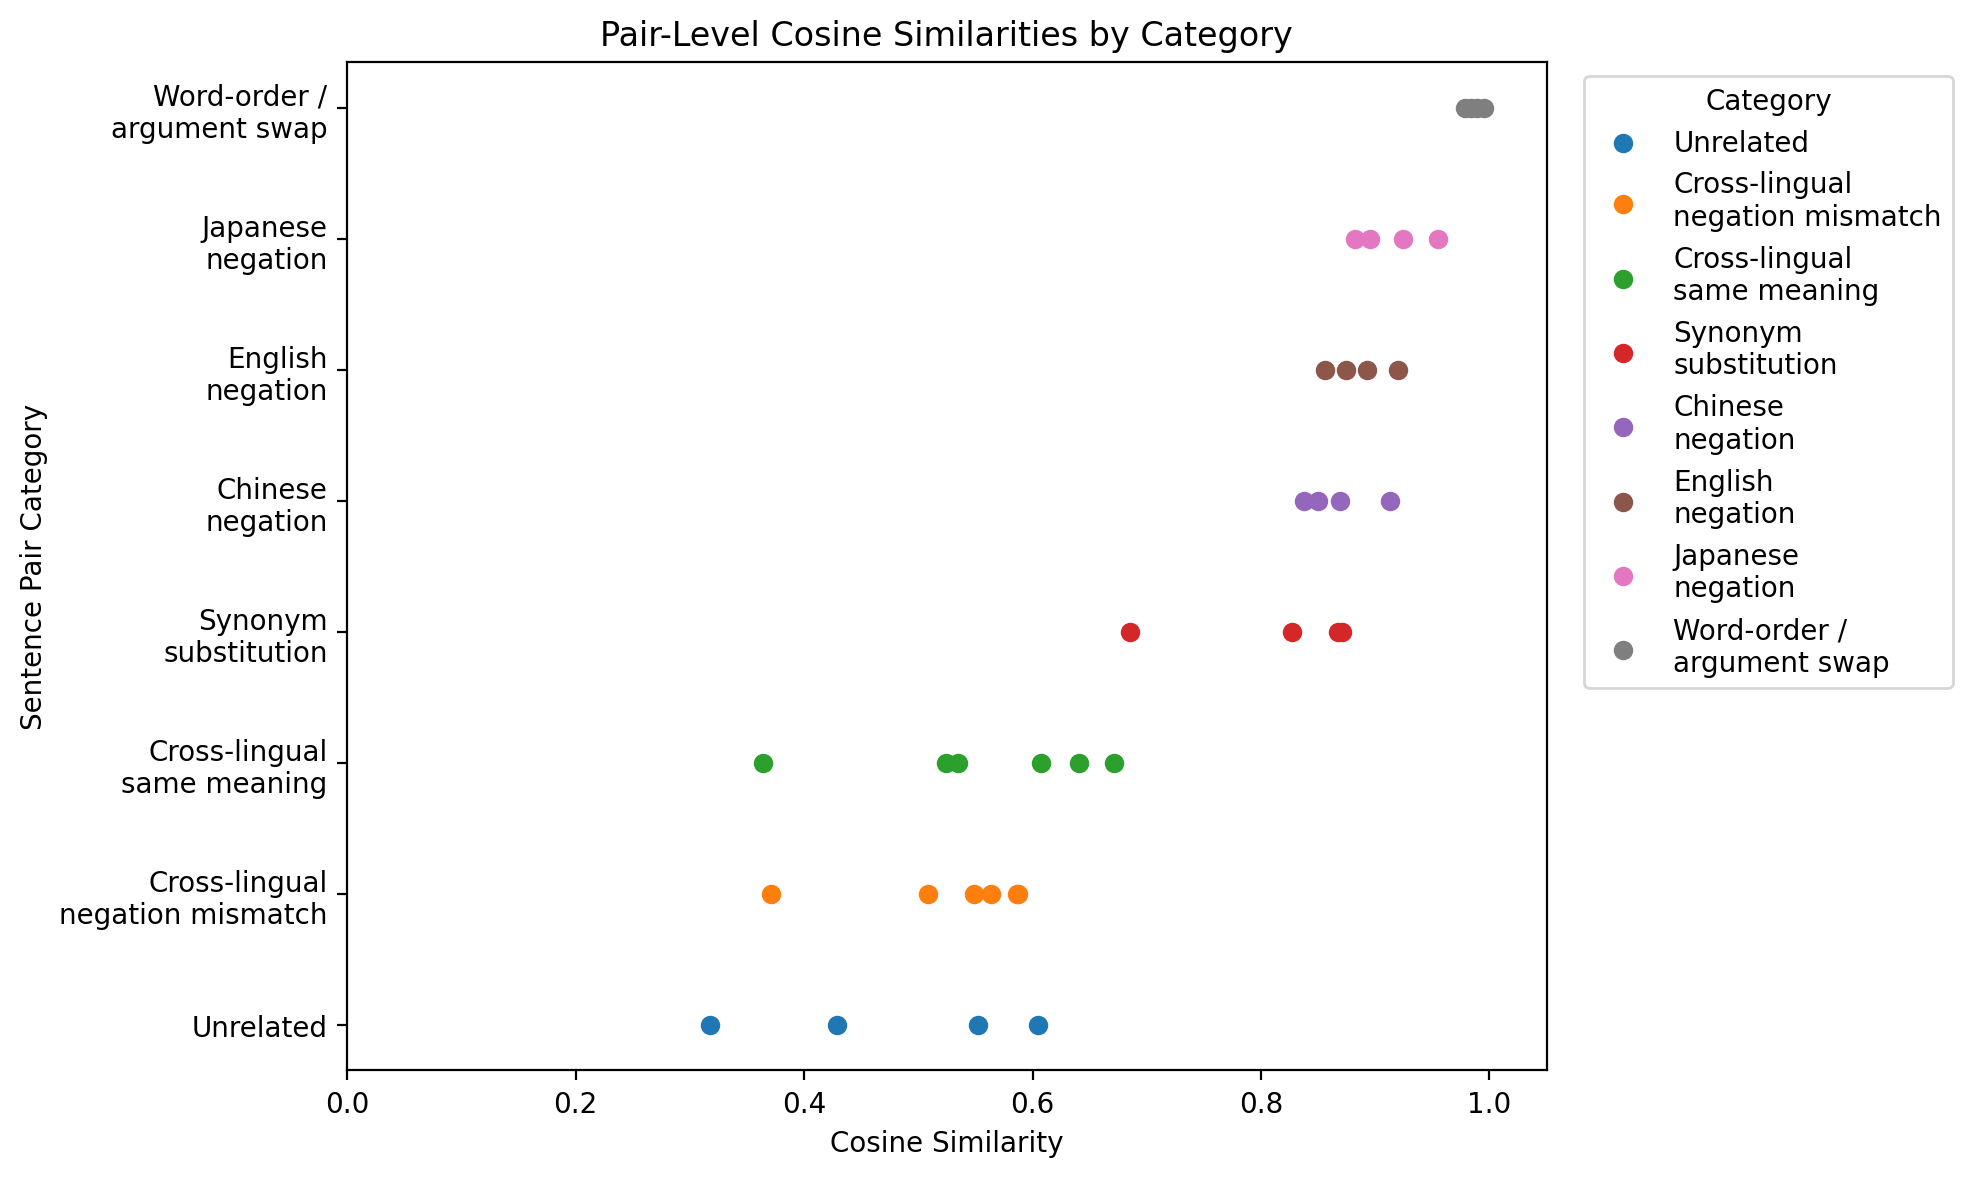
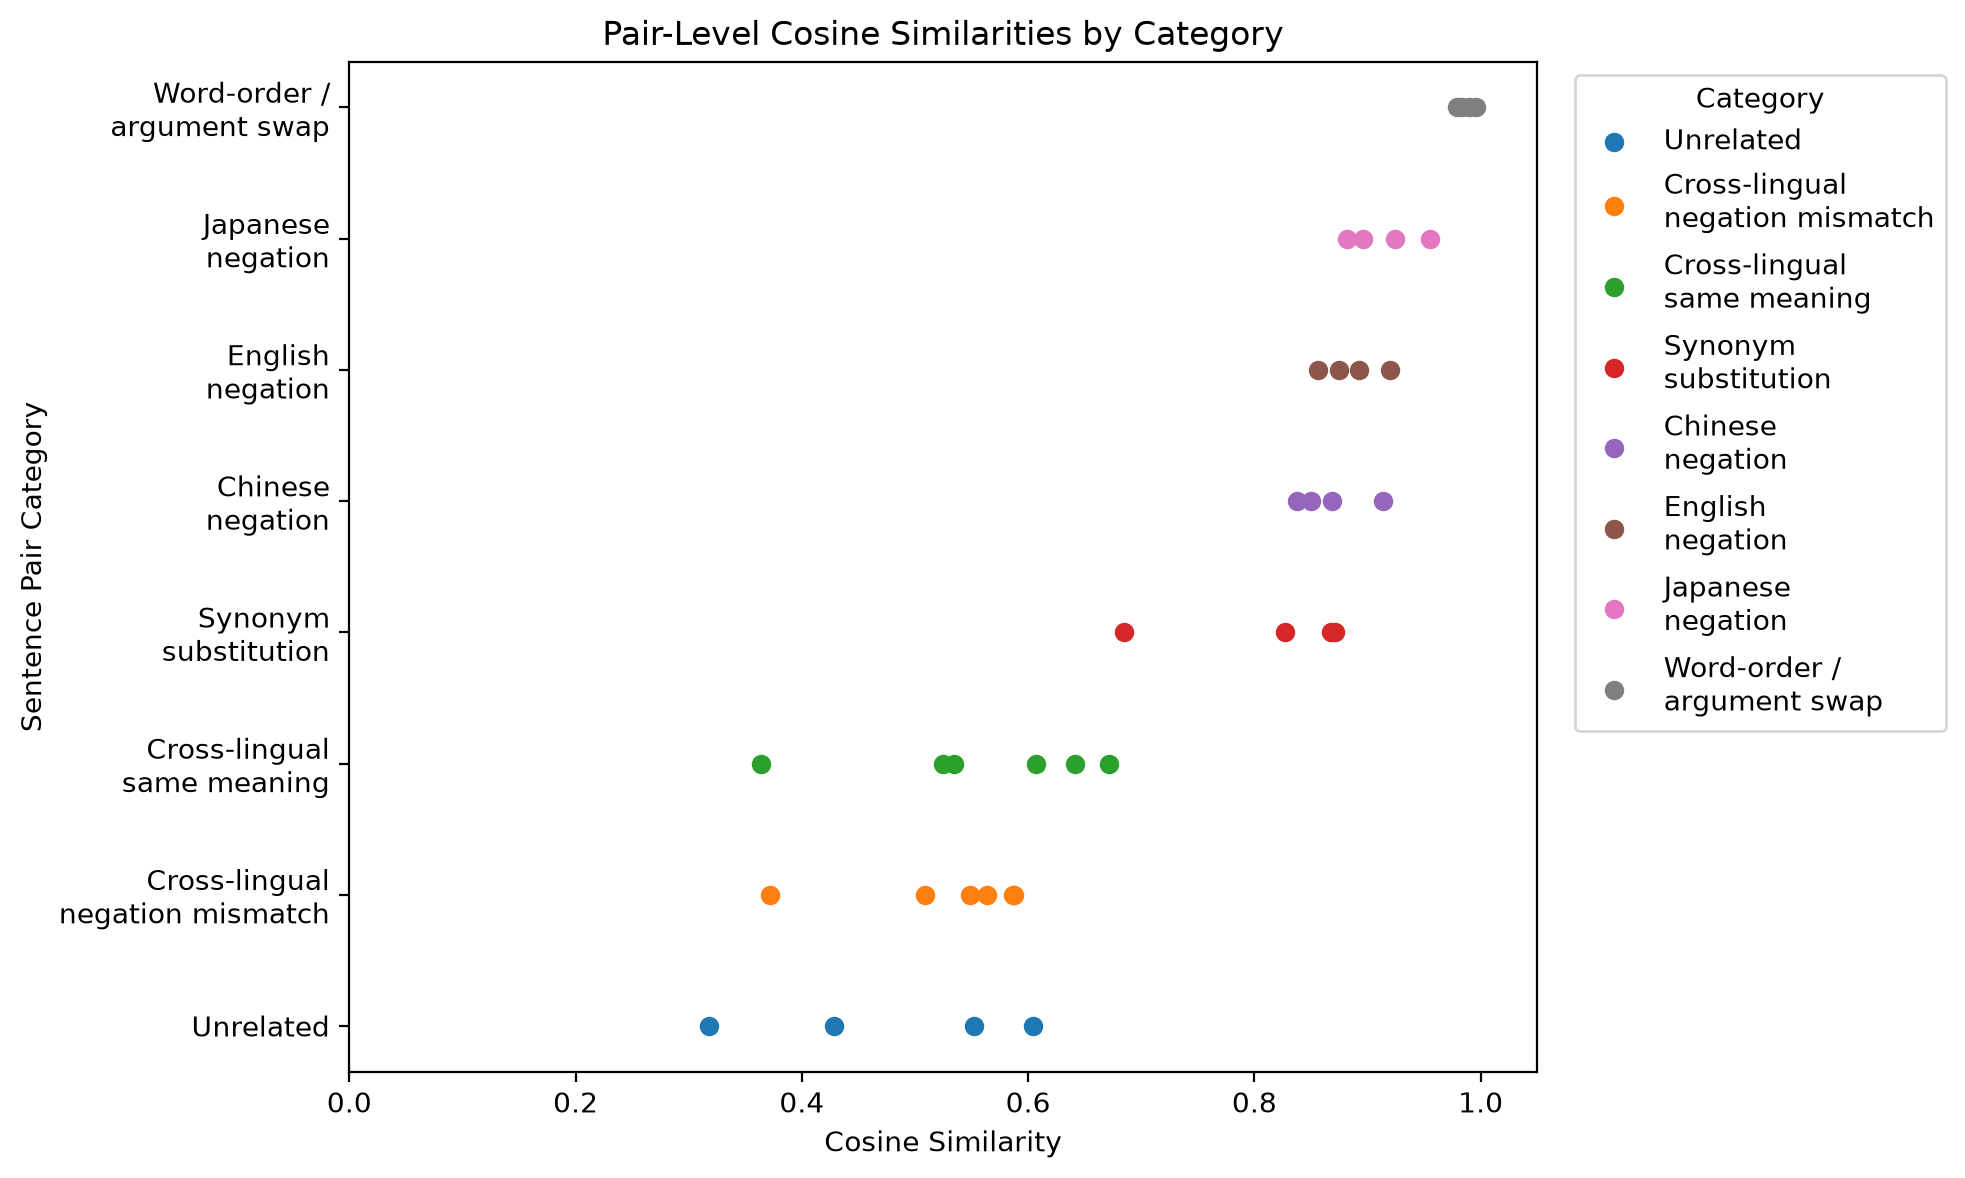
add visualization

diff --git a/src/make_figures.py b/src/make_figures.py
@@ -2,6 +2,7 @@ from pathlib import Path
 
 import matplotlib.pyplot as plt
 import pandas as pd
+import numpy as np
 
 """
 1st experiment visualizations
@@ -12,10 +13,13 @@ FIGURES_DIR = Path("figures")
 
 CATEGORY_RESULTS_PATH = RESULTS_DIR / "category_summary_mbert.csv"
 PAIR_RESULTS_PATH = RESULTS_DIR / "pair_similarities_mbert.csv"
+CLS_CATEGORY_RESULTS_PATH = RESULTS_DIR / "category_summary_mbert_cls.csv"
+COMPARISON_RESULTS_PATH = RESULTS_DIR / "mean_vs_cls_category_comparison.csv"
 
 CATEGORY_FIGURE_PATH = FIGURES_DIR / "category_mean_similarity.png"
 PAIR_FIGURE_PATH = FIGURES_DIR / "pair_similarity_by_category.png"
 COLOR_FIGURE_PATH = FIGURES_DIR / "pair_similarity_color.png"
+MEAN_VS_CLS_FIGURE_PATH = FIGURES_DIR / "mean_vs_cls_category_comparison.png"
 
 
 def clean_category_name(category: str) -> str:
@@ -155,16 +159,113 @@ def make_pair_level_scatter_plot_color() -> None:
     plt.savefig(COLOR_FIGURE_PATH, dpi=200, bbox_inches="tight")
     plt.close()
 
+def load_mean_vs_cls_comparison() -> pd.DataFrame:
+    """
+    Load Experiment 1 and 2 category summaries and combine them.
+    """
+    mean_df = pd.read_csv(CATEGORY_RESULTS_PATH)
+    cls_df = pd.read_csv(CLS_CATEGORY_RESULTS_PATH)
+
+    mean_df = mean_df[["category", "expected_similarity", "mean_similarity"]]
+    cls_df = cls_df[["category", "mean_similarity"]]
+
+    comparison = mean_df.merge(
+        cls_df,
+        on="category",
+        suffixes=("_mean_pooling", "_cls"),
+    )
+
+    comparison["difference_cls_minus_mean"] = (
+        comparison["mean_similarity_cls"]
+        - comparison["mean_similarity_mean_pooling"]
+    ).round(4)
+
+    comparison = comparison.sort_values(
+        "mean_similarity_mean_pooling",
+        ascending=True,
+    )
+
+    comparison.to_csv(COMPARISON_RESULTS_PATH, index=False)
+
+    return comparison
+
+def make_mean_vs_cls_grouped_bar_chart() -> None:
+    """
+    Create a grouped horizontal bar chart comparing Experiment 1 and 2.
+    """
+    comparison = load_mean_vs_cls_comparison()
+
+    comparison["label"] = comparison["category"].apply(clean_category_name)
+
+    y_positions = np.arange(len(comparison))
+    bar_height = 0.35
+
+    plt.figure(figsize=(11, 7))
+
+    plt.barh(
+        y_positions - bar_height / 2,
+        comparison["mean_similarity_mean_pooling"],
+        height=bar_height,
+        label="Mean pooling",
+    )
+
+    plt.barh(
+        y_positions + bar_height / 2,
+        comparison["mean_similarity_cls"],
+        height=bar_height,
+        label="CLS token",
+    )
+
+    max_value = max(
+        comparison["mean_similarity_mean_pooling"].max(),
+        comparison["mean_similarity_cls"].max(),
+    )
+
+    label_offset = 0.01
+    right_padding = 0.08
+
+    for index, value in enumerate(comparison["mean_similarity_mean_pooling"]):
+        plt.text(
+            value + label_offset,
+            y_positions[index] - bar_height / 2,
+            f"{value:.3f}",
+            va="center",
+            fontsize=8,
+        )
+
+    for index, value in enumerate(comparison["mean_similarity_cls"]):
+        plt.text(
+            value + label_offset,
+            y_positions[index] + bar_height / 2,
+            f"{value:.3f}",
+            va="center",
+            fontsize=8,
+        )
+
+    plt.yticks(y_positions, comparison["label"])
+    plt.xlabel("Mean Cosine Similarity")
+    plt.ylabel("Sentence Pair Category")
+    plt.title("Experiment 1 vs. Experiment 2: Mean Pooling Compared with CLS Token")
+    plt.xlim(0, max_value + right_padding)
+    plt.legend()
+    plt.tight_layout()
+
+    plt.savefig(MEAN_VS_CLS_FIGURE_PATH, dpi=200, bbox_inches="tight")
+    plt.close()
+
 def main() -> None:
     FIGURES_DIR.mkdir(exist_ok=True)
 
     make_category_bar_chart()
     make_pair_level_scatter_plot()
     make_pair_level_scatter_plot_color()
+    make_mean_vs_cls_grouped_bar_chart()
 
     print(f"Saved category bar chart to: {CATEGORY_FIGURE_PATH}")
     print(f"Saved pair-level scatter plot to: {PAIR_FIGURE_PATH}")
     print(f"Saved color-coded scatter plot to: {COLOR_FIGURE_PATH}")
+    print(f"Saved mean-vs-CLS comparison chart to: {MEAN_VS_CLS_FIGURE_PATH}")
+
 
 
 if __name__ == "__main__":

diff --git a/README.md b/README.md
@@ -128,6 +128,12 @@ CLS-token embeddings did not fix the unexpected behavior from Experiment 1, inst
 
 The role-reversal category remained the highest-scoring category, with a mean similarity of 0.9945. Negation categories also remained very high. The cross-lingual same-meaning category improved from 0.5572 to 0.8244, but the cross-lingual negation mismatch category also increased from 0.5279 to 0.7747. One surprising result was that unrelated sentence pairs also became much more similar, increasing from 0.4758 with mean pooling to 0.7898 with CLS. 
 
+### Visualization
+
+![Mean pooling vs. CLS-token comparison](figures/mean_vs_cls_category_comparison.png)
+
+The comparison between mean pooling and CLS-token embeddings shows that the same patterns from the first experiment remain. CLS-token embeddings produced higher cosine similarity across every category, shown by the orange bars.
+
 ### Interpretation
 
 The consistent high scores of the role-reversal and negation categories suggests that the previous results in Experiment 1 were not only caused by mean pooling. All categories showed an increase, which means CLS embeddings created higher cross-lingual similarity overall, but still did not clearly separate same-meaning translations from negation mismatches. This suggests that CLS-token embeddings may compress many sentence pairs into a high-similarity range, making cosine similarity less useful for distinguishing precise semantic relationships in this setup.